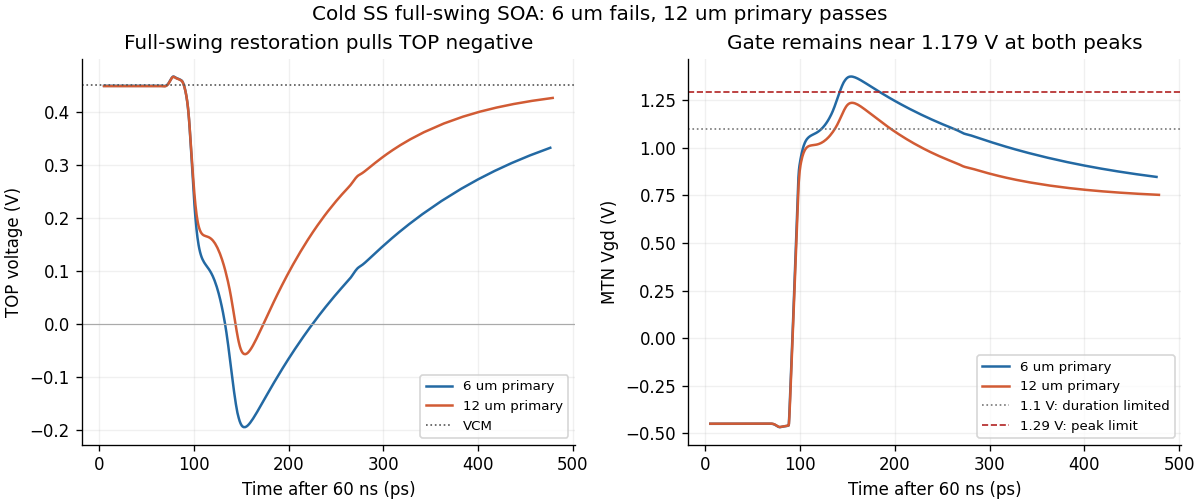
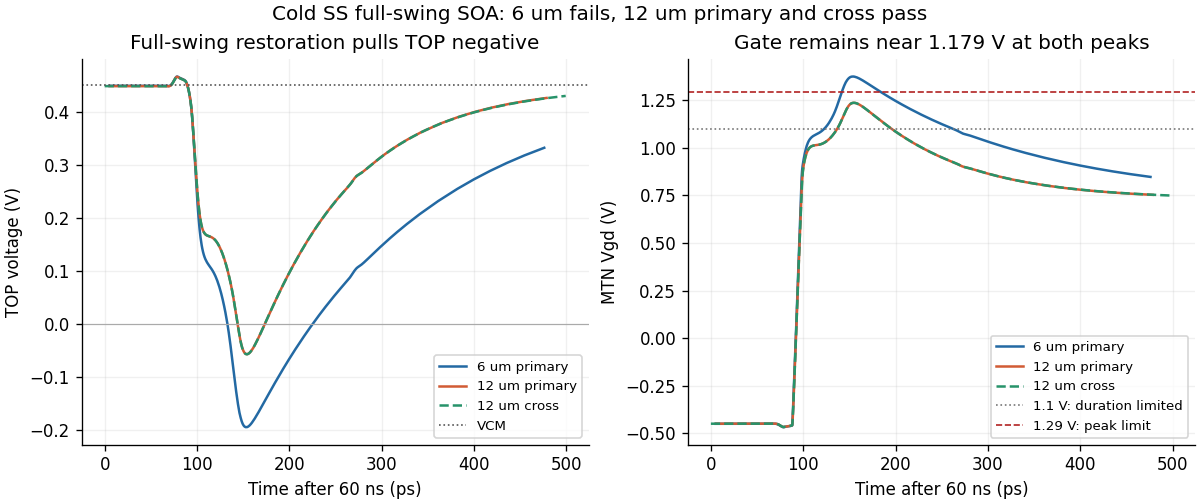
docs(adc_cdac): verify boosted-reset cold SOA convergence

diff --git a/design/xtor/adc_cdac/many-question-codex/boosted-reset-experiment.md b/design/xtor/adc_cdac/many-question-codex/boosted-reset-experiment.md
@@ -115,6 +115,7 @@ The ideal booster has no internal physical devices to qualify.
 |---|---:|---:|---:|
 | n6_k09 primary | 1 | 1.37379 | 155.315 |
 | n12_k09 primary | 0 | 1.23572 | 80.520 |
+| n12_k09 cross | 0 | 1.23587 | 79.877 |
 
 The 6 um reset fails both the 1.29 V peak limit and the 100 ps duration limit.
 At the worst edge its gate is 1.17912 V and TOP is -0.19467 V. In the 12 um
@@ -131,3 +132,32 @@ setting changes the strict effective1e-7/10nV hot tracking runs.
 Already-running 6 um full spectra remain diagnostic comparisons; the failed SOA
 prevents promoting that endpoint or starting its physical booster implementation.
 No further 6 um qualification expansion is launched.
+
+The completed 12 um crosscheck retains zero violations. Its critical reset
+Vgd differs from primary by +0.15 mV and its worst-window duration by -0.643 ps;
+the crosscheck leaves 54.13 mV peak margin and 20.123 ps duration margin. Across
+all 1782 pairs, the largest peak change is 4.12 mV on XSW6.XDL.MNB1 Vds,
+with no verdict changes. This supports this endpoint under the dedicated cold stimulus.
+It does not establish other corners, full tracking behavior or booster-internal SOA.
+
+The original cross solver completed normally. Remote reduction wrote all device-pair
+results, then failed to export a thin wave on non-quoted TRACE metadata. The untouched
+full waveform exceeded the automatic fetch size cap. It was retrieved separately;
+all 1782 pairs were independently recomputed locally and matched the remote rows
+exactly. No simulation or source change was needed. The original failed summary
+and full wave remain in private evidence.
+
+## Completed-run archive index
+
+Each listed ZIP was checked against the original remote files and every extracted
+member hash. Full waveforms and process data remain private; these are diagnostic
+records, separate from the frozen formal results.
+
+| Case / record | Run | Files | ZIP SHA-256 |
+|---|---|---:|---|
[6 lines of base64/hex data omitted]
